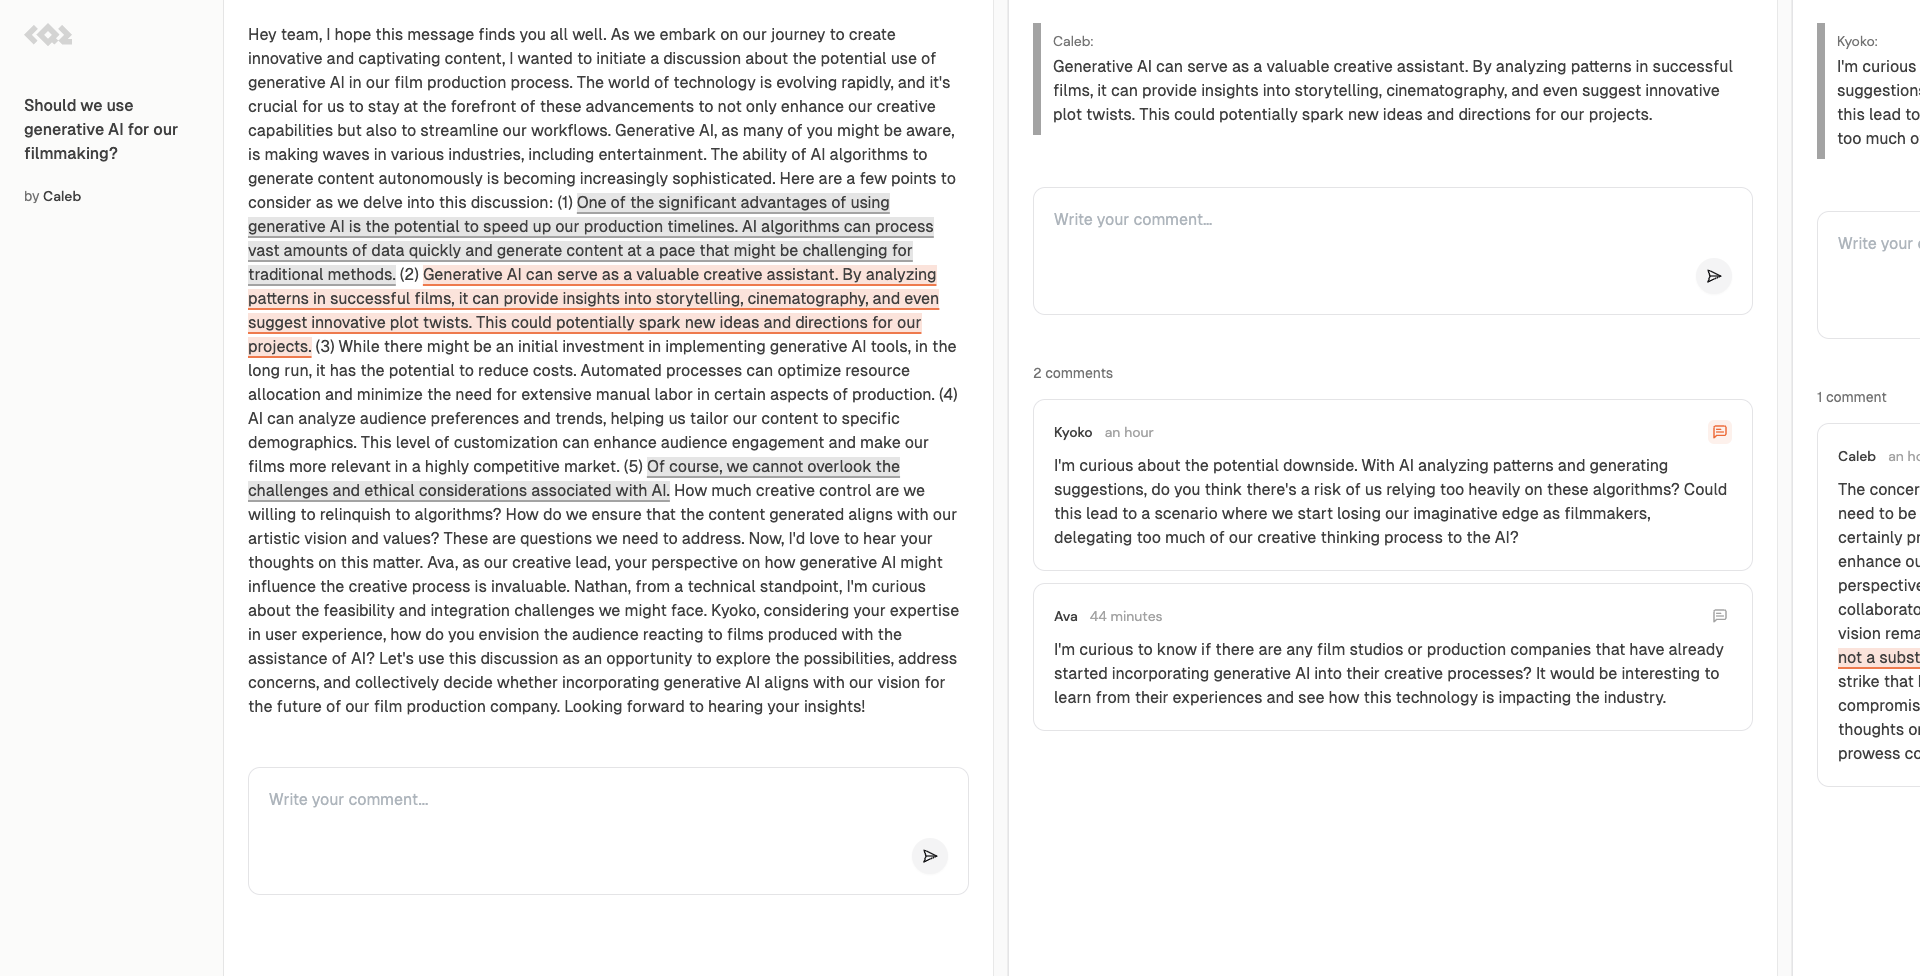
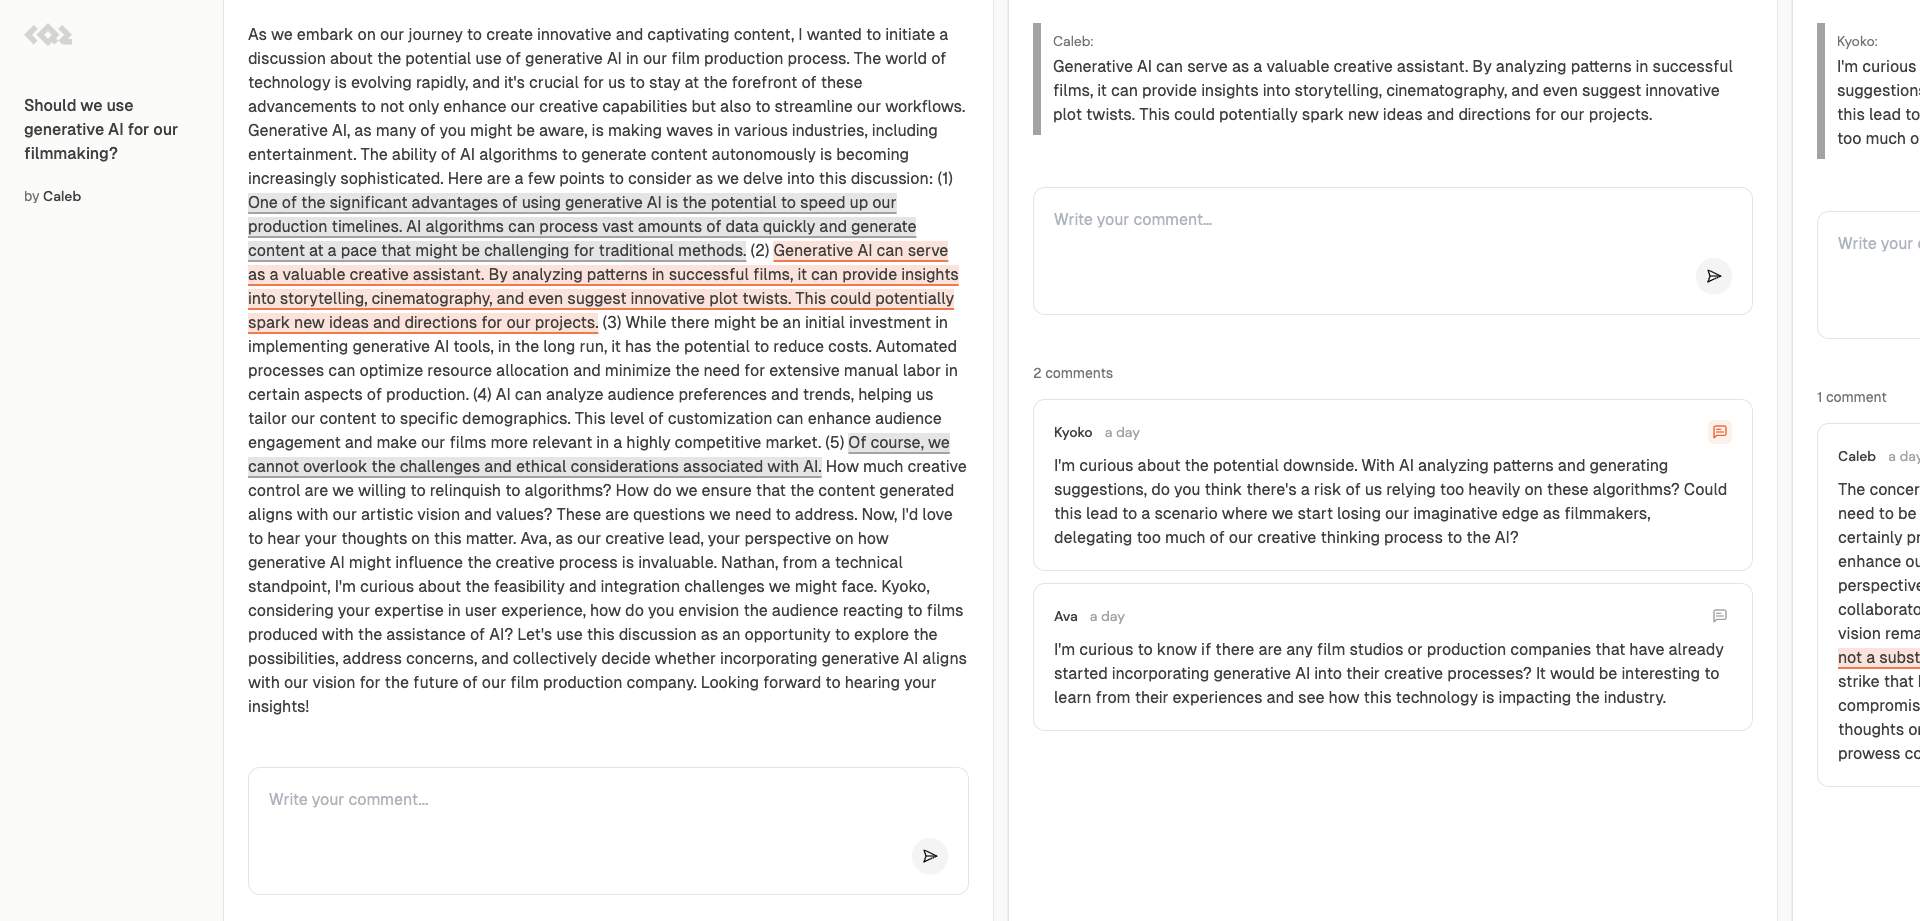
chore: minor wording change of dummy discussion

diff --git a/src/lib/dummy-data.tsx b/src/lib/dummy-data.tsx
@@ -3,26 +3,26 @@ const DemoData = {
   thread_id: 0,
   title: "Should we use generative AI for our filmmaking?",
   content:
-    "Hey team, I hope this message finds you all well. As we embark on our journey to create innovative and captivating content, I wanted to initiate a discussion about the potential use of generative AI in our film production process. The world of technology is evolving rapidly, and it's crucial for us to stay at the forefront of these advancements to not only enhance our creative capabilities but also to streamline our workflows. Generative AI, as many of you might be aware, is making waves in various industries, including entertainment. The ability of AI algorithms to generate content autonomously is becoming increasingly sophisticated. Here are a few points to consider as we delve into this discussion: (1) One of the significant advantages of using generative AI is the potential to speed up our production timelines. AI algorithms can process vast amounts of data quickly and generate content at a pace that might be challenging for traditional methods. (2) Generative AI can serve as a valuable creative assistant. By analyzing patterns in successful films, it can provide insights into storytelling, cinematography, and even suggest innovative plot twists. This could potentially spark new ideas and directions for our projects. (3) While there might be an initial investment in implementing generative AI tools, in the long run, it has the potential to reduce costs. Automated processes can optimize resource allocation and minimize the need for extensive manual labor in certain aspects of production. (4) AI can analyze audience preferences and trends, helping us tailor our content to specific demographics. This level of customization can enhance audience engagement and make our films more relevant in a highly competitive market. (5) Of course, we cannot overlook the challenges and ethical considerations associated with AI. How much creative control are we willing to relinquish to algorithms? How do we ensure that the content generated aligns with our artistic vision and values? These are questions we need to address. Now, I'd love to hear your thoughts on this matter. Ava, as our creative lead, your perspective on how generative AI might influence the creative process is invaluable. Nathan, from a technical standpoint, I'm curious about the feasibility and integration challenges we might face. Kyoko, considering your expertise in user experience, how do you envision the audience reacting to films produced with the assistance of AI? Let's use this discussion as an opportunity to explore the possibilities, address concerns, and collectively decide whether incorporating generative AI aligns with our vision for the future of our film production company. Looking forward to hearing your insights!",
+    "As we embark on our journey to create innovative and captivating content, I wanted to initiate a discussion about the potential use of generative AI in our film production process. The world of technology is evolving rapidly, and it's crucial for us to stay at the forefront of these advancements to not only enhance our creative capabilities but also to streamline our workflows. Generative AI, as many of you might be aware, is making waves in various industries, including entertainment. The ability of AI algorithms to generate content autonomously is becoming increasingly sophisticated. Here are a few points to consider as we delve into this discussion: (1) One of the significant advantages of using generative AI is the potential to speed up our production timelines. AI algorithms can process vast amounts of data quickly and generate content at a pace that might be challenging for traditional methods. (2) Generative AI can serve as a valuable creative assistant. By analyzing patterns in successful films, it can provide insights into storytelling, cinematography, and even suggest innovative plot twists. This could potentially spark new ideas and directions for our projects. (3) While there might be an initial investment in implementing generative AI tools, in the long run, it has the potential to reduce costs. Automated processes can optimize resource allocation and minimize the need for extensive manual labor in certain aspects of production. (4) AI can analyze audience preferences and trends, helping us tailor our content to specific demographics. This level of customization can enhance audience engagement and make our films more relevant in a highly competitive market. (5) Of course, we cannot overlook the challenges and ethical considerations associated with AI. How much creative control are we willing to relinquish to algorithms? How do we ensure that the content generated aligns with our artistic vision and values? These are questions we need to address. Now, I'd love to hear your thoughts on this matter. Ava, as our creative lead, your perspective on how generative AI might influence the creative process is invaluable. Nathan, from a technical standpoint, I'm curious about the feasibility and integration challenges we might face. Kyoko, considering your expertise in user experience, how do you envision the audience reacting to films produced with the assistance of AI? Let's use this discussion as an opportunity to explore the possibilities, address concerns, and collectively decide whether incorporating generative AI aligns with our vision for the future of our film production company. Looking forward to hearing your insights!",
   timestamp: 1707465042346,
   highlights: [
     {
       highlight_id: 1,
-      offset: 715,
+      offset: 665,
       length: 248,
       from_thread_id: 0,
       to_thread_id: 1,
     },
     {
       highlight_id: 2,
-      offset: 968,
+      offset: 918,
       length: 272,
       from_thread_id: 0,
       to_thread_id: 4,
     },
     {
       highlight_id: 3,
-      offset: 1753,
+      offset: 1703,
       length: 91,
       from_thread_id: 0,
       to_thread_id: 11,
